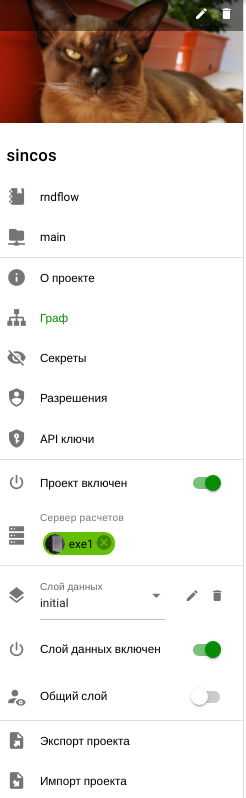
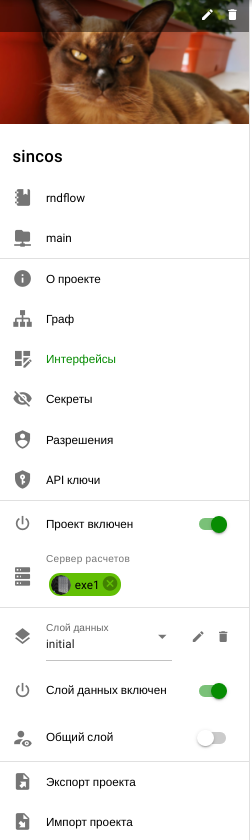
Add interfaces to projects

diff --git a/src/desc/project.md b/src/desc/project.md
@@ -16,6 +16,7 @@
 - [Слои данных](/docs/intro/definitions#datalayer)
 - Подключенный к проекту S3 сервер
 - Подключенный к проекту основной сервер расчетов
+- Графические интерфейсы управления графом (Интерфейсы)
 
 ## Интерфейс
 
@@ -40,6 +41,7 @@
 
 - Описание проекта и список доступных для внешнего запроса ролей и API ключей (О проекте)
 - Редактор графа проекта (Граф)
+- Редактор графических интерфейсов проекта (Интерфейсы)
 - Редактор секретов проекта (Секреты)
 - Редактор разрешений проекта (Разрешения)
 - Редактор API ключей проекта (API ключи)
